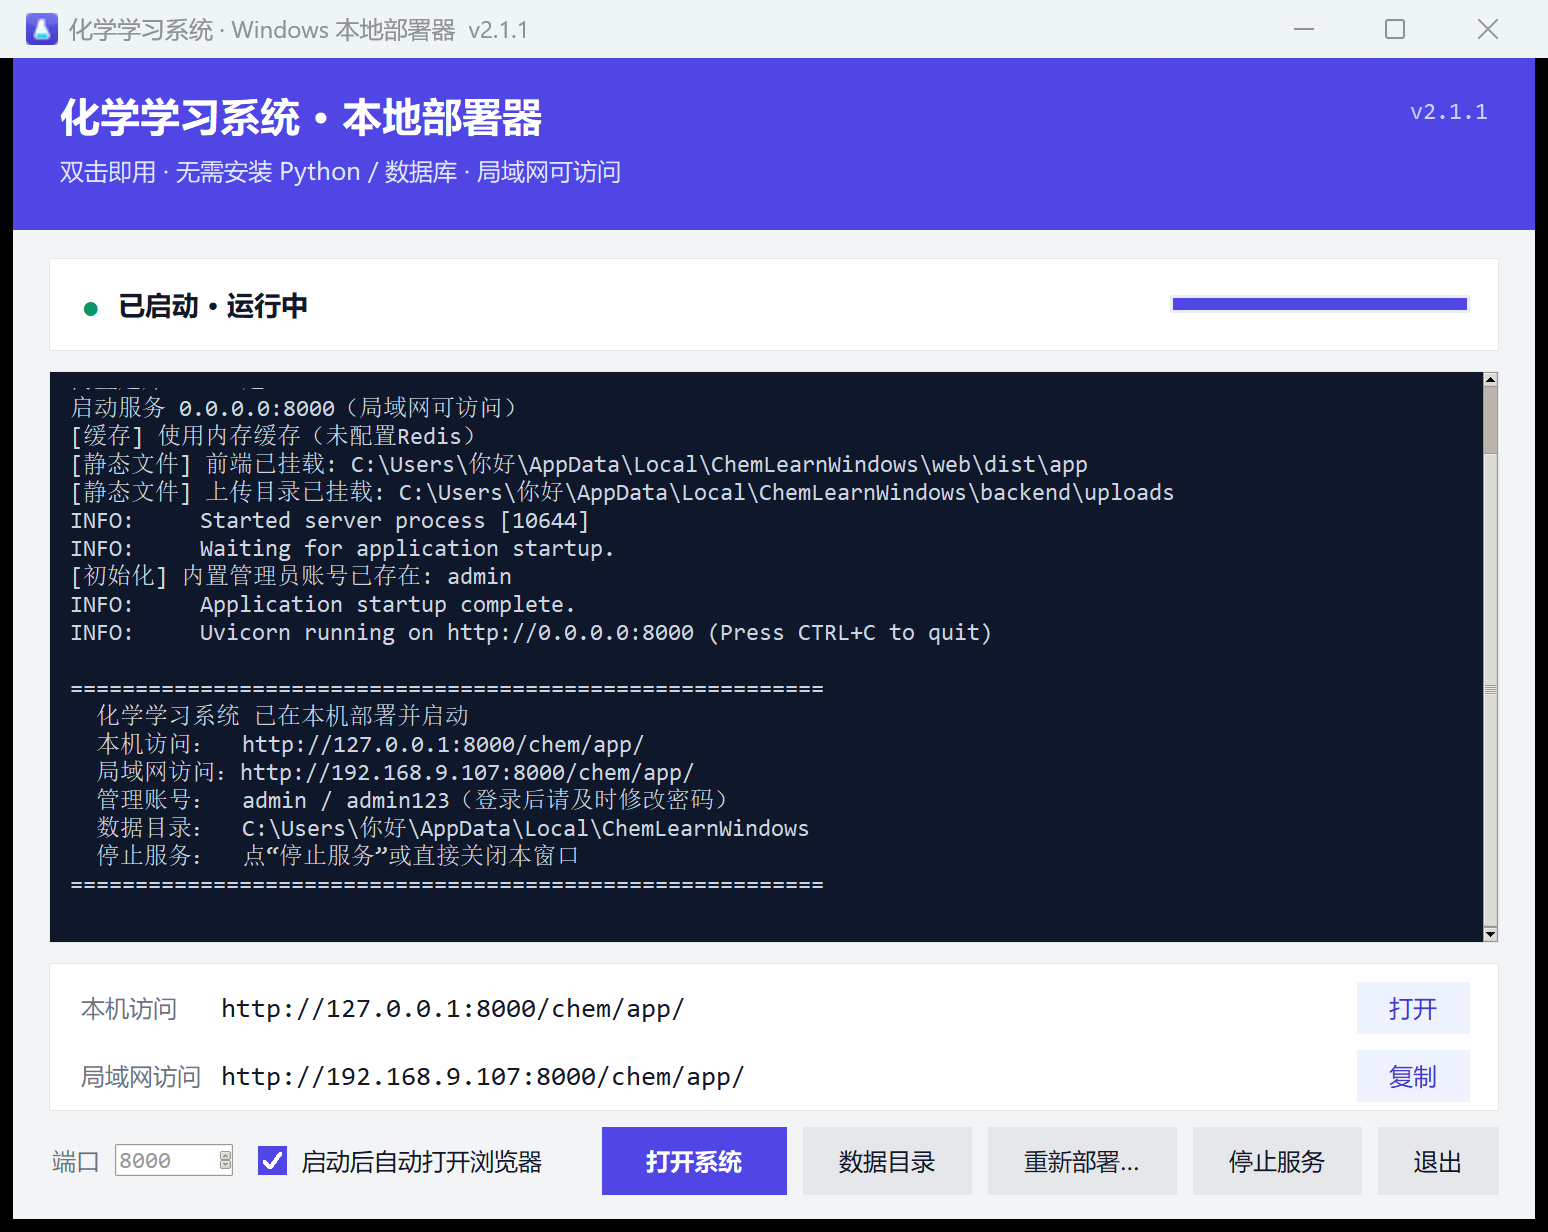
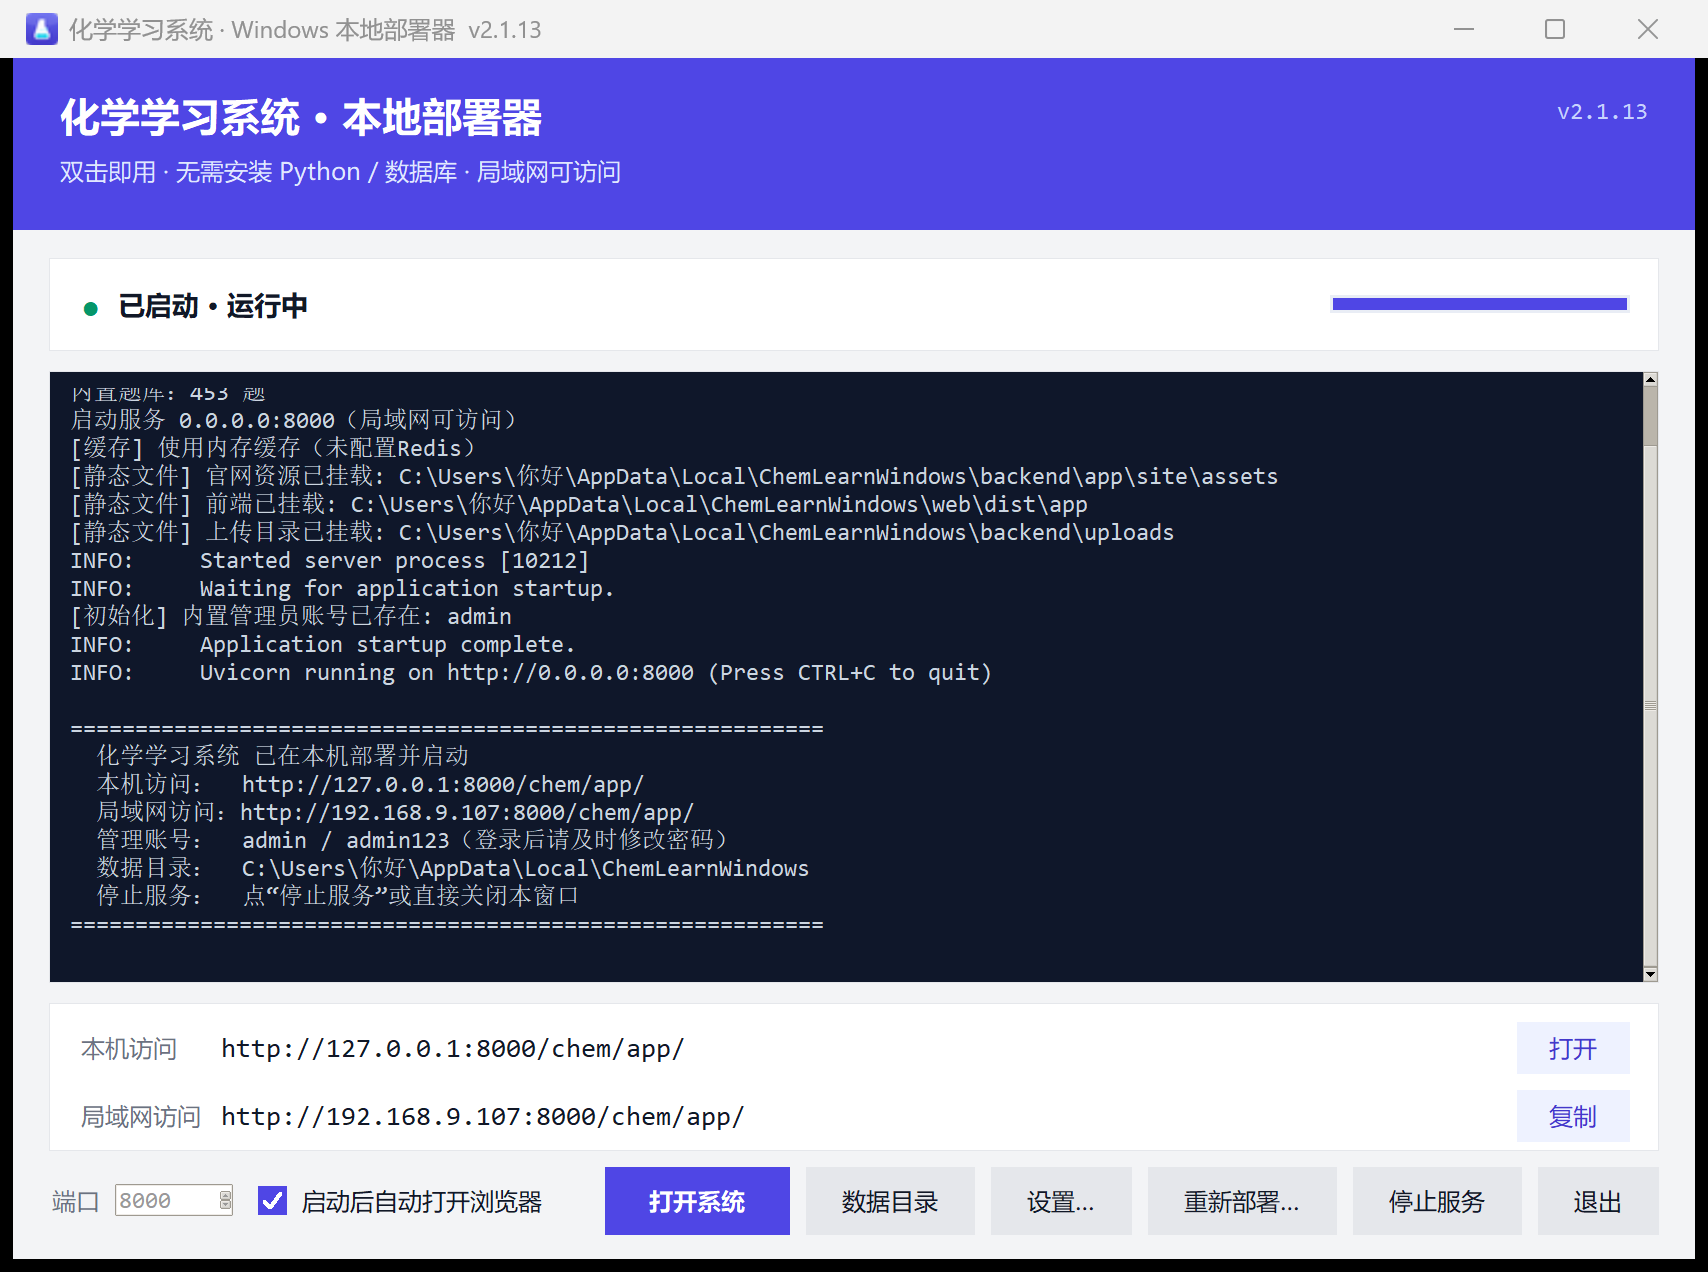
feat(deployer): 可选 SMTP / AI 接口 / 上传目录设置
- Windows 部署器新增「设置…」对话框：SMTP 主机/端口/账号/授权码/发件人、AI API 地址/Key、上传文件目录
- 全部可留空；SMTP 不完整时注册不要求邮箱验证码
- 设置写入 backend/.env，上传目录通过 UPLOAD_DIR 生效，后端静态挂载同步
- 上传目录支持后端、题库图片、结构式图片统一指向自定义目录
- VERSION 常量修正为 2.1.13；设置窗口高度适配 1080p
- 使用说明/README 更新

diff --git a/deployer/windows/win_deployer.py b/deployer/windows/win_deployer.py
@@ -16,7 +16,7 @@
     ChemLearnWindows.exe --reset            重新部署（清空用户数据，恢复内置题库）
     ChemLearnWindows.exe --console          纯命令行模式（排障用，窗口里能看到日志）
 """
-VERSION = "2.1.1"
+VERSION = "2.1.13"
 APP_NAME = "化学学习系统"
 DATA_FOLDER = "ChemLearnWindows"
 PAYLOAD_NAME = "payload_chem.tar.gz"
@@ -66,6 +66,7 @@ BACKEND_DIR = os.path.join(DATA_ROOT, "backend")
 WEB_DIR = os.path.join(DATA_ROOT, "web", "dist", "app")
 DB_PATH = os.path.join(BACKEND_DIR, "chemlearn.db")
 ENV_PATH = os.path.join(BACKEND_DIR, ".env")
+SETTINGS_PATH = os.path.join(DATA_ROOT, "deployer-settings.json")
 MARKER = os.path.join(DATA_ROOT, ".deployed")
 LOG_PATH = os.path.join(DATA_ROOT, "deployer.log")
 PAYLOAD_PATH = resource_path(PAYLOAD_NAME)
@@ -133,6 +134,90 @@ def write_env_if_missing():
             "DEBUG=true\n"
             "SECRET_KEY=%s\n" % secret
         )
+
+
+def load_deployer_settings():
+    try:
+        with open(SETTINGS_PATH, encoding="utf-8") as f:
+            data = json.load(f)
+        return data if isinstance(data, dict) else {}
+    except Exception:
+        return {}
+
+
+def save_deployer_settings(data):
+    os.makedirs(DATA_ROOT, exist_ok=True)
+    with open(SETTINGS_PATH, "w", encoding="utf-8", newline="\n") as f:
+        json.dump(data, f, ensure_ascii=False, indent=2)
+
+
+def _update_env_file(updates):
+    if not os.path.exists(ENV_PATH):
+        return
+    with open(ENV_PATH, encoding="utf-8") as f:
+        lines = f.read().splitlines()
+    keys = set(updates)
+    out, seen = [], set()
+    for line in lines:
+        stripped = line.strip()
+        if stripped and not stripped.startswith("#") and "=" in stripped:
+            key = stripped.split("=", 1)[0].strip()
+            if key in keys:
+                value = updates.get(key, "")
+                if value:
+                    out.append("%s=%s" % (key, value))
+                    seen.add(key)
+                continue
+        out.append(line)
+    for key in keys:
+        value = updates.get(key, "")
+        if value and key not in seen:
+            out.append("%s=%s" % (key, value))
+    with open(ENV_PATH, "w", encoding="utf-8", newline="\n") as f:
+        f.write("\n".join(out).rstrip("\n") + "\n")
+
+
+def apply_saved_settings():
+    """把部署器里的可选设置写入环境与 .env；空值表示不启用。"""
+    settings = load_deployer_settings()
+    if not settings:
+        return
+
+    smtp_host = (settings.get("smtp_host") or "").strip()
+    smtp_port = (settings.get("smtp_port") or "465").strip()
+    smtp_user = (settings.get("smtp_user") or "").strip()
+    smtp_password = (settings.get("smtp_password") or "").strip()
+    smtp_from = (settings.get("smtp_from") or "").strip() or smtp_user
+    smtp_ready = bool(smtp_host and smtp_user and smtp_password)
+    try:
+        port_num = int(smtp_port)
+    except ValueError:
+        port_num = 465
+    use_ssl = port_num == 465
+
+    updates = {
+        "SMTP_HOST": smtp_host if smtp_ready else "",
+        "SMTP_PORT": str(port_num) if smtp_ready else "",
+        "SMTP_USER": smtp_user if smtp_ready else "",
+        "SMTP_PASSWORD": smtp_password if smtp_ready else "",
+        "SMTP_FROM": smtp_from if smtp_ready else "",
+        "SMTP_USE_SSL": "true" if use_ssl else "false",
+        "SMTP_USE_TLS": "false" if use_ssl else "true",
+        "REQUIRE_EMAIL_VERIFICATION": "true" if smtp_ready else "false",
+        "SMTP_DEBUG": "false",
+        "AI_API_BASE": (settings.get("ai_api_base") or "").strip(),
+        "AI_API_KEY": (settings.get("ai_api_key") or "").strip(),
+    }
+
+    upload_dir = (settings.get("upload_dir") or "").strip()
+    if upload_dir:
+        upload_dir = os.path.abspath(upload_dir)
+        os.makedirs(upload_dir, exist_ok=True)
+        os.environ["UPLOAD_DIR"] = upload_dir
+    else:
+        os.environ.pop("UPLOAD_DIR", None)
+
+    _update_env_file(updates)
 
 
 def force_clean(log, timeout=8.0):
@@ -236,6 +321,7 @@ def deploy(force=False, log=print, progress=None):
         raise DeployError("解压后没有找到 backend 目录，运行时包可能已损坏")
     os.makedirs(os.path.join(BACKEND_DIR, "uploads"), exist_ok=True)
     write_env_if_missing()
+    apply_saved_settings()
 
     # 旧版目录已无用（数据库在迁移时已接管），清掉避免重复占空间
     if migrated or os.path.isfile(LEGACY_MARKER):
@@ -374,6 +460,7 @@ class Backend:
             sys.path.insert(0, BACKEND_DIR)
         # 后端按相对路径找数据库 / 前端 / 上传目录，工作目录必须是 backend
         self._quiet_sqlalchemy()
+        apply_saved_settings()
 
         from app.main import app as fastapi_app  # noqa: E402
 
@@ -507,8 +594,8 @@ class DeployerApp:
         root = self.root
         root.title("%s · Windows 本地部署器  v%s" % (APP_NAME, VERSION))
         root.configure(bg=BG)
-        root.geometry("%dx%d" % (px(760), px(580)))
-        root.minsize(px(720), px(560))
+        root.geometry("%dx%d" % (px(840), px(600)))
+        root.minsize(px(780), px(560))
 
         try:
             root.iconbitmap(resource_path("app.ico"))
@@ -613,11 +700,12 @@ class DeployerApp:
         self.btn_quit = self._button(footer, "退出", self.on_close, primary=False)
         self.btn_stop = self._button(footer, "停止服务", self.stop_service, primary=False)
         self.btn_redeploy = self._button(footer, "重新部署…", self.redeploy, primary=False)
+        self.btn_settings = self._button(footer, "设置…", self.open_settings, primary=False)
         self.btn_data = self._button(footer, "数据目录", self.open_data_dir, primary=False)
         self.btn_open = self._button(footer, "打开系统", self.open_system, primary=True)
         self.btn_retry = self._button(footer, "重试启动", self.retry_start, primary=True)
         for btn in (self.btn_quit, self.btn_stop, self.btn_redeploy,
-                    self.btn_data, self.btn_open):
+                    self.btn_settings, self.btn_data, self.btn_open):
             btn.pack(side="right", padx=(px(8), 0))
         self.btn_open.configure(state="disabled")
         self.btn_stop.configure(state="disabled")
@@ -849,6 +937,107 @@ class DeployerApp:
 
     def open_system(self):
         self.open_url(self.local_var.get())
+
+    def open_settings(self):
+        """可选设置：SMTP、AI 接口、上传文件目录，全部可留空。"""
+        from tkinter import filedialog, messagebox
+        tk, px = self.tk, self.px
+        settings = load_deployer_settings()
+
+        win = tk.Toplevel(self.root)
+        win.title("可选设置")
+        win.configure(bg=BG)
+        win.transient(self.root)
+        win.grab_set()
+        win.geometry("%dx%d" % (px(640), px(500)))
+        win.minsize(px(580), px(460))
+
+        body = tk.Frame(win, bg=BG)
+        body.pack(fill="both", expand=True, padx=px(22), pady=(px(14), 0))
+        body.columnconfigure(1, weight=1)
+
+        def heading(text, row):
+            tk.Label(body, text=text, bg=BG, fg=ACCENT_DARK,
+                     font=("Microsoft YaHei UI", 10, "bold")).grid(
+                row=row, column=0, columnspan=2, sticky="w", pady=(px(10), px(6)))
+
+        def field(label, key, default="", show=None, row=0):
+            tk.Label(body, text=label, bg=BG, fg=TEXT,
+                     font=("Microsoft YaHei UI", 9)).grid(
+                row=row, column=0, sticky="w", padx=(0, px(10)), pady=px(4))
+            var = tk.StringVar(value=str(settings.get(key, default) or ""))
+            entry = tk.Entry(body, textvariable=var, show=show or "",
+                             font=("Consolas", 10), bd=1, relief="solid")
+            entry.grid(row=row, column=1, sticky="we", pady=px(4))
+            return var
+
+        heading("邮件 SMTP（可选，填完整后注册才要求邮箱验证码）", 0)
+        smtp_host = field("SMTP 主机", "smtp_host", "smtp.qq.com", row=1)
+        smtp_port = field("端口 / SSL", "smtp_port", "465", row=2)
+        smtp_user = field("SMTP 账号", "smtp_user", row=3)
+        smtp_password = field("SMTP 授权码", "smtp_password", show="*", row=4)
+        smtp_from = field("发件地址（空=账号）", "smtp_from", row=5)
+
+        heading("AI 问答（可选，留空则使用内置默认配置）", 6)
+        ai_base = field("API 地址", "ai_api_base", "https://api.openai.com/v1", row=7)
+        ai_key = field("API Key", "ai_api_key", show="*", row=8)
+
+        heading("上传文件目录（可选，空=数据目录下 backend\\uploads）", 9)
+        tk.Label(body, text="文件目录", bg=BG, fg=TEXT,
+                 font=("Microsoft YaHei UI", 9)).grid(
+            row=10, column=0, sticky="w", pady=px(4))
+        upload_box = tk.Frame(body, bg=BG)
+        upload_box.grid(row=10, column=1, sticky="we", pady=px(4))
+        upload_box.columnconfigure(0, weight=1)
+        upload_var = tk.StringVar(value=str(settings.get("upload_dir", "") or ""))
+        tk.Entry(upload_box, textvariable=upload_var, font=("Consolas", 9),
+                 bd=1, relief="solid").grid(row=0, column=0, sticky="we")
+
+        def browse_upload():
+            selected = filedialog.askdirectory(
+                parent=win, initialdir=upload_var.get() or DATA_ROOT)
+            if selected:
+                upload_var.set(selected)
+
+        tk.Button(upload_box, text="浏览…", command=browse_upload, bd=0,
+                  relief="flat", bg="#eef2ff", fg=ACCENT_DARK, cursor="hand2",
+                  padx=px(10), pady=px(2),
+                  font=("Microsoft YaHei UI", 9)).grid(row=0, column=1, padx=(px(8), 0))
+
+        tk.Label(body, text="以上均为可选项；修改后请重启部署器，重新启动服务后生效。",
+                 bg=BG, fg=MUTED, font=("Microsoft YaHei UI", 8)).grid(
+            row=11, column=0, columnspan=2, sticky="w", pady=(px(12), 0))
+
+        actions = tk.Frame(win, bg=BG)
+        actions.pack(fill="x", padx=px(22), pady=px(14))
+
+        def save():
+            data = {
+                "smtp_host": smtp_host.get().strip(),
+                "smtp_port": smtp_port.get().strip() or "465",
+                "smtp_user": smtp_user.get().strip(),
+                "smtp_password": smtp_password.get().strip(),
+                "smtp_from": smtp_from.get().strip(),
+                "ai_api_base": ai_base.get().strip(),
+                "ai_api_key": ai_key.get().strip(),
+                "upload_dir": upload_var.get().strip(),
+            }
+            save_deployer_settings(data)
+            try:
+                if os.path.isdir(BACKEND_DIR):
+                    apply_saved_settings()
+            except Exception as exc:
+                messagebox.showwarning("保存设置", "设置已保存，但写入配置失败：\n%s" % exc, parent=win)
+                return
+            win.destroy()
+            messagebox.showinfo(
+                "设置已保存",
+                "设置已保存。\n\nSMTP 填完整后，注册才会要求邮箱验证码；\n"
+                "修改 AI / 邮件 / 文件目录后，请重启部署器再启动服务。",
+                parent=self.root)
+
+        self._button(actions, "取消", win.destroy, primary=False).pack(side="right", padx=(px(8), 0))
+        self._button(actions, "保存", save, primary=True).pack(side="right")
 
     def open_data_dir(self):
         try:

diff --git a/backend/app/api/question_ext.py b/backend/app/api/question_ext.py
@@ -21,10 +21,11 @@ logger = logging.getLogger(__name__)
 
 router = APIRouter(prefix="/questions", tags=["题目扩展"])
 
-# 与 main.py 保持一致：默认 backend/uploads/questions，可用 UPLOAD_DIR 环境变量覆盖。
-# 不要写死 /var/www/... 之类的服务器路径，否则换台机器（或 CI）一导入就 PermissionError。
+# 上传根目录：默认 backend/uploads；本地部署器可通过 UPLOAD_DIR 指向自定义目录。
+# 题目图片统一放在其下的 questions/ 子目录。
 _BACKEND_DIR = os.path.dirname(os.path.dirname(os.path.dirname(os.path.abspath(__file__))))
-UPLOAD_DIR = os.environ.get("UPLOAD_DIR") or os.path.join(_BACKEND_DIR, "uploads", "questions")
+_UPLOAD_ROOT = os.environ.get("UPLOAD_DIR") or os.path.join(_BACKEND_DIR, "uploads")
+UPLOAD_DIR = os.path.join(_UPLOAD_ROOT, "questions")
 try:
     os.makedirs(UPLOAD_DIR, exist_ok=True)
 except OSError as exc:  # 目录不可写时不要让整个应用起不来

diff --git a/backend/app/main.py b/backend/app/main.py
@@ -237,7 +237,8 @@ if os.path.isdir(_site_assets):
 
 _frontend_dir = os.path.join(os.path.dirname(os.path.dirname(os.path.abspath(__file__))), "..", "web", "dist", "app")
 _frontend_dir = os.path.normpath(_frontend_dir)
-_uploads_dir = os.path.join(os.path.dirname(os.path.dirname(os.path.abspath(__file__))), "uploads")
+_uploads_dir = os.environ.get("UPLOAD_DIR") or os.path.join(
+    os.path.dirname(os.path.dirname(os.path.abspath(__file__))), "uploads")
 _uploads_dir = os.path.normpath(_uploads_dir)
 
 from starlette.exceptions import HTTPException as _StarletteHTTPException

diff --git a/README.md b/README.md
@@ -1,4 +1,4 @@
-# 化学学习系统 · ChemLearn
+# 化学学习系统 · ChemLearn
 
 [![CI](https://github.com/houshibo0101/chemlearn/actions/workflows/ci.yml/badge.svg)](https://github.com/houshibo0101/chemlearn/actions/workflows/ci.yml)
 
@@ -34,7 +34,7 @@
 | 文件 | 平台 | 说明 |
 |---|---|---|
 | [ChemLearn-Deployer-v1.3.0.exe](https://github.com/houshibo0101/chemlearn/releases/tag/v1.3.0) | Linux 服务器 | 填 IP、SSH 密码和 AI Key，自动装好 nginx / Python / systemd，3–6 分钟完成 |
-| [ChemLearnWindows-v2.1.12.exe](https://github.com/houshibo0101/chemlearn/releases/tag/windows-v2.1.12) | Windows 本机 | 双击部署到本机，界面里看地址 / 开系统 / 重置，局域网可访问 |
+| [ChemLearnWindows-v2.1.13.exe](https://github.com/houshibo0101/chemlearn/releases/tag/windows-v2.1.13) | Windows 本机 | 双击部署到本机，界面里看地址 / 开系统 / 重置，局域网可访问 |
 | [题库数据包 453 题](https://github.com/houshibo0101/chemlearn/releases/tag/question-bank-v1) | 通用 | 解压到 `backend/import_data/` 后跑导入脚本 |
 
 > Linux 部署器内置完整部署包（源码 + 前端 + 依赖清单），目标机只需能联网的 Ubuntu / Debian。
@@ -246,6 +246,7 @@ deployer/windows/.buildenv/Scripts/python deployer/windows/build_win.py --with-p
 
 - 首次运行把运行时解压到 `%LOCALAPPDATA%\ChemLearnWindows`，数据库存在 `backend\chemlearn.db`
 - 窗口里可以直接：打开系统、复制局域网地址、打开数据目录、停止服务、重新部署
+- 「设置…」里可选填：邮件 SMTP（注册验证码）、AI API 地址/Key、上传文件目录；全部可留空
 - 换新 exe 直接双击即可升级，程序会更新而数据库保留；`--reset` 才清空数据
 - 内置 4 套化学连连看示例关卡，装好即可直接玩
 - 默认账号 `admin / admin123`，登录后请到个人中心修改
